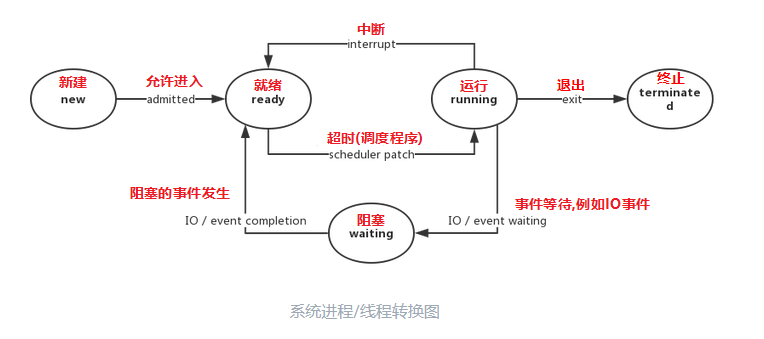
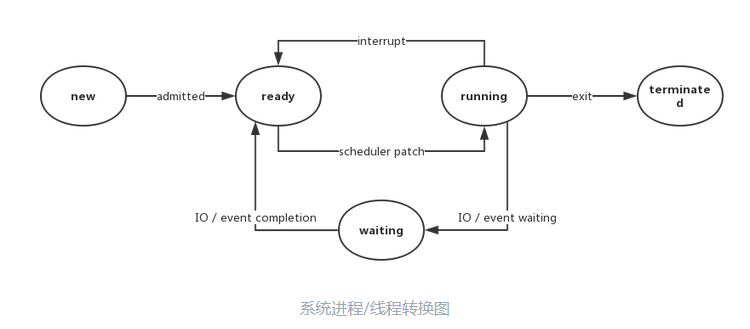
更新

Changed region(s): [[0.0307, 0.0608, 0.9813, 0.7903], [0.368, 0.8815, 0.6133, 0.9726]]

diff --git a/2021/20210825-Java线程的状态及主要转化方法.md b/2021/20210825-Java线程的状态及主要转化方法.md
@@ -12,6 +12,8 @@
 
 ![](../images/2021/08/20210825111331.png)
 
+![](../images/2021/08/20210827170634.png)
+
 操作系统线程主要有以下三个状态：
 
 +   就绪状态(ready)：线程正在等待使用CPU，经调度程序调用之后可进入running状态。
@@ -32,7 +34,7 @@ public enum State {
 }
 ```
 
-##  NEW
+##  NEW -> 尚未启动的线程的线程状态
 
 处于NEW状态的线程此时尚未启动。这里的尚未启动指的是还没调用Thread实例的start()方法。
 
@@ -128,95 +130,79 @@ public static State toThreadState(int var0) {
 +   两个问题的答案都是不可行，在调用一次start()之后，threadStatus的值会改变（threadStatus !=0），此时再次调用start()方法会抛出IllegalThreadStateException异常。
 +   比如，threadStatus为2代表当前线程状态为TERMINATED。
 
-4.2.2 RUNNABLE
+##  RUNNABLE -> 可运行线程的线程状态
+
+Java线程的RUNNABLE状态其实是包括了传统操作系统线程的`ready`和`running`两个状态的。
+
+我们来看看Thread源码里对RUNNABLE状态的定义：
+
+![](../images/2021/08/20210827164925.png)
 
 表示当前线程正在运行中。处于RUNNABLE状态的线程在Java虚拟机中运行，也有可能在等待其他系统资源（比如I/O）。
 
-Java中线程的RUNNABLE状态
-
-看了操作系统线程的几个状态之后我们来看看Thread源码里对RUNNABLE状态的定义：
-
-/**
- * Thread state for a runnable thread.  A thread in the runnable
- * state is executing in the Java virtual machine but it may
- * be waiting for other resources from the operating system
- * such as processor.
- */
-
-    Java线程的RUNNABLE状态其实是包括了传统操作系统线程的ready和running两个状态的。
-
-4.2.3 BLOCKED
+##  BLOCKED -> 线程阻塞等待监视器锁定的线程状态
 
 阻塞状态。处于BLOCKED状态的线程正等待锁的释放以进入同步区。
 
 我们用BLOCKED状态举个生活中的例子：
 
-    假如今天你下班后准备去食堂吃饭。你来到食堂仅有的一个窗口，发现前面已经有个人在窗口前了，此时你必须得等前面的人从窗口离开才行。
-    假设你是线程t2，你前面的那个人是线程t1。此时t1占有了锁（食堂唯一的窗口），t2正在等待锁的释放，所以此时t2就处于BLOCKED状态。
++   假如今天你下班后准备去食堂吃饭。你来到食堂仅有的一个窗口，发现前面已经有个人在窗口前了，此时你必须得等前面的人从窗口离开才行。
++   假设你是线程t2，你前面的那个人是线程t1。此时t1占有了锁（食堂唯一的窗口），t2正在等待锁的释放，所以此时t2就处于BLOCKED状态。
 
-4.2.4 WAITING
+##  WAITING -> 等待线程的线程状态
 
 等待状态。处于等待状态的线程变成RUNNABLE状态需要其他线程唤醒。
 
 调用如下3个方法会使线程进入等待状态：
 
-    Object.wait()：使当前线程处于等待状态直到另一个线程唤醒它；
-
-    Thread.join()：等待线程执行完毕，底层调用的是Object实例的wait方法；
-
-    LockSupport.park()：除非获得调用许可，否则禁用当前线程进行线程调度。  
++   Object.wait()：使当前线程处于等待状态直到另一个线程唤醒它；
++   Thread.join()：等待线程执行完毕，底层调用的是Object实例的wait方法；
++   LockSupport.park()：除非获得调用许可，否则禁用当前线程进行线程调度。
 
 我们延续上面的例子继续解释一下WAITING状态：
 
-    你等了好几分钟现在终于轮到你了，突然你们有一个“不懂事”的经理突然来了。你看到他你就有一种不祥的预感，果然，他是来找你的。
++   你等了好几分钟现在终于轮到你了，突然你们有一个“不懂事”的经理突然来了。你看到他你就有一种不祥的预感，果然，他是来找你的。
++   他把你拉到一旁叫你待会儿再吃饭，说他下午要去作报告，赶紧来找你了解一下项目的情况。你心里虽然有一万个不愿意但是你还是从食堂窗口走开了。
 
-    他把你拉到一旁叫你待会儿再吃饭，说他下午要去作报告，赶紧来找你了解一下项目的情况。你心里虽然有一万个不愿意但是你还是从食堂窗口走开了。
++   此时，假设你还是线程t2，你的经理是线程t1。虽然你此时都占有锁（窗口）了，“不速之客”来了你还是得释放掉锁。此时你t2的状态就是WAITING。然后经理t1获得锁，进入RUNNABLE状态。
++   要是经理t1不主动唤醒你t2（notify、notifyAll..），可以说你t2只能一直等待了。
 
-    此时，假设你还是线程t2，你的经理是线程t1。虽然你此时都占有锁（窗口）了，“不速之客”来了你还是得释放掉锁。此时你t2的状态就是WAITING。然后经理t1获得锁，进入RUNNABLE状态。
-
-    要是经理t1不主动唤醒你t2（notify、notifyAll..），可以说你t2只能一直等待了。
-
-4.2.5 TIMED_WAITING
+##  TIMED_WAITING -> 具有指定等待时间的等待线程的线程状态
 
 超时等待状态。线程等待一个具体的时间，时间到后会被自动唤醒。
 
 调用如下方法会使线程进入超时等待状态：
 
-    Thread.sleep(long millis)：使当前线程睡眠指定时间；
-
-    Object.wait(long timeout)：线程休眠指定时间，等待期间可以通过notify()/notifyAll()唤醒；
-
-    Thread.join(long millis)：等待当前线程最多执行millis毫秒，如果millis为0，则会一直执行；
-
-    LockSupport.parkNanos(long nanos)： 除非获得调用许可，否则禁用当前线程进行线程调度指定时间；
-
-    LockSupport.parkUntil(long deadline)：同上，也是禁止线程进行调度指定时间；
++   Thread.sleep(long millis)：使当前线程睡眠指定时间；
++   Object.wait(long timeout)：线程休眠指定时间，等待期间可以通过notify()/notifyAll()唤醒；
++   Thread.join(long millis)：等待当前线程最多执行millis毫秒，如果millis为0，则会一直执行；
++   LockSupport.parkNanos(long nanos)： 除非获得调用许可，否则禁用当前线程进行线程调度指定时间；
++   LockSupport.parkUntil(long deadline)：同上，也是禁止线程进行调度指定时间；
 
 我们继续延续上面的例子来解释一下TIMED_WAITING状态：
 
-    到了第二天中午，又到了饭点，你还是到了窗口前。
++   到了第二天中午，又到了饭点，你还是到了窗口前。
++   突然间想起你的同事叫你等他一起，他说让你等他十分钟他改个bug。
++   好吧，你说那你就等等吧，你就离开了窗口。很快十分钟过去了，你见他还没来，你想都等了这么久了还不来，那你还是先去吃饭好了。
 
-    突然间想起你的同事叫你等他一起，他说让你等他十分钟他改个bug。
++   这时你还是线程t1，你改bug的同事是线程t2。t2让t1等待了指定时间，t1先主动释放了锁。此时t1等待期间就属于TIMED_WATING状态。
++   t1等待10分钟后，就自动唤醒，拥有了去争夺锁的资格。
 
-    好吧，你说那你就等等吧，你就离开了窗口。很快十分钟过去了，你见他还没来，你想都等了这么久了还不来，那你还是先去吃饭好了。
-
-    这时你还是线程t1，你改bug的同事是线程t2。t2让t1等待了指定时间，t1先主动释放了锁。此时t1等待期间就属于TIMED_WATING状态。
-
-    t1等待10分钟后，就自动唤醒，拥有了去争夺锁的资格。
-
-4.2.6 TERMINATED
+##  TERMINATED -> 终止
 
 终止状态。此时线程已执行完毕。
-4.3 线程状态的转换
+
+#   线程状态的转换
 
 根据上面关于线程状态的介绍我们可以得到下面的线程状态转换图： 线程状态转换图
-4.3.1 BLOCKED与RUNNABLE状态的转换
+
+##  BLOCKED与RUNNABLE状态的转换
 
 我们在上面说到：处于BLOCKED状态的线程是因为在等待锁的释放。假如这里有两个线程a和b，a线程提前获得了锁并且暂未释放锁，此时b就处于BLOCKED状态。我们先来看一个例子：
 
+```java
 @Test
 public void blockedTest() {
-
     Thread a = new Thread(new Runnable() {
         @Override
         public void run() {
@@ -229,13 +215,13 @@ public void blockedTest() {
             testMethod();
         }
     }, "b");
-
+
     a.start();
     b.start();
     System.out.println(a.getName() + ":" + a.getState()); // 输出？
     System.out.println(b.getName() + ":" + b.getState()); // 输出？
 }
-
+
 // 同步方法争夺锁
 private synchronized void testMethod() {
     try {
@@ -244,12 +230,13 @@ private synchronized void testMethod() {
         e.printStackTrace();
     }
 }
+```
 
 初看之下，大家可能会觉得线程a会先调用同步方法，同步方法内又调用了Thread.sleep()方法，必然会输出TIMED_WAITING，而线程b因为等待线程a释放锁所以必然会输出BLOCKED。
 
 其实不然，有两点需要值得大家注意，一是在测试方法blockedTest()内还有一个main线程，二是启动线程后执行run方法还是需要消耗一定时间的。不打断点的情况下，上面代码中都应该输出RUNNABLE。
 
-    测试方法的main线程只保证了a，b两个线程调用start()方法（转化为RUNNABLE状态），还没等两个线程真正开始争夺锁，就已经打印此时两个线程的状态（RUNNABLE）了。
+>   测试方法的main线程只保证了a，b两个线程调用start()方法（转化为RUNNABLE状态），`还没等两个线程真正开始争夺锁，就已经打印此时两个线程的状态（RUNNABLE）了`。
 
 这时你可能又会问了，要是我想要打印出BLOCKED状态我该怎么处理呢？其实就处理下测试方法里的main线程就可以了，你让它“休息一会儿”，打断点或者调用Thread.sleep方法就行。
 
@@ -257,6 +244,7 @@ private synchronized void testMethod() {
 
 我们把上面的测试方法blockedTest()改动一下：
 
+```java
 public void blockedTest() throws InterruptedException {
     ······
     a.start();
@@ -265,15 +253,18 @@ public void blockedTest() throws InterruptedException {
     System.out.println(a.getName() + ":" + a.getState()); // 输出？
     System.out.println(b.getName() + ":" + b.getState()); // 输出？
 }
+```
 
 在这个例子中，由于main线程休眠，所以线程a的run()方法跟着执行，线程b再接着执行。
 
 在线程a执行run()调用testMethod()之后，线程a休眠了2000ms（注意这里是没有释放锁的），main线程休眠完毕，接着b线程执行的时候是争夺不到锁的，所以这里输出：
 
+```
 a:TIMED_WAITING
 b:BLOCKED
+```
 
-4.3.2 WAITING状态与RUNNABLE状态的转换
+##  WAITING状态与RUNNABLE状态的转换
 
 根据转换图我们知道有3个方法可以使线程从RUNNABLE状态转为WAITING状态。我们主要介绍下Object.wait()和Thread.join()。 Object.wait()
 
@@ -361,3 +352,4 @@ b线程状态仍然不固定（RUNNABLE或BLOCKED）。
 +   [Java线程状态分析](https://fangjian0423.github.io/2016/06/04/java-thread-state/)
 +   [Java线程和操作系统线程的关系](https://blog.csdn.net/CringKong/article/details/79994511)
 +   [详细分析 Java 中断机制](https://www.infoq.cn/article/java-interrupt-mechanism)
++   [Java多线程-线程状态](https://zhuanlan.zhihu.com/p/79775292)

diff --git a/2021/20210626-配置ssh使用证书访问服务器.md b/2021/20210626-配置ssh使用证书访问服务器.md
@@ -18,23 +18,22 @@ ssh-keygen -t rsa -b 4096 -f ~/.ssh/server_rsa -C "xx-email"
 # 可以一直回车,不设定密码,也可以设定私钥密码
 ```
 
-+
-    -   -t:指定算法
-    -   -b:指定长度
-    -   -f:指定文件名
-    -   -C:指定邮箱,可以不写
++   -t:指定算法
++   -b:指定长度
++   -f:指定文件名
++   -C:指定邮箱,可以不写
 
-#   上传密钥的服务器端
-
-接下来，我们将我们创建好的公钥上传到服务器上，我们将会使用到 scp 命令。
+#   上传公钥的服务器端并加入 authorized_keys
+##  方式一
+1.  我们将我们创建好的公钥上传到服务器上，我们将会使用到 scp 命令。
 
 ```bash
 # 上传密钥的服务器端
-scp ~/.ssh/server_rsa.pub <YOUR SERVER USERNAME>@<YOUR SERVER IP ADDRESS>
+scp -P <端口> ~/.ssh/server_rsa.pub <用户名>@<服务器IP地址>:<存到哪个文件夹>
 ```
 
+2.  服务器端将密钥添加到 authorized_keys
 
-#   服务器端将密钥添加到 authorized_keys
 在服务器上执行如下操作
 
 ```bash
@@ -45,6 +44,17 @@ mkdir .ssh
 # 将公钥添加到 authorized_keys 文件中
 cat server_rsa.pub >> ~/.ssh/authorized_keys
 ```
+
+##  方式二
+
+```bash
+ssh-copy-id -i server_rsa.pub -p<端口> <用户名>@<服务器IP地址>
+```
+
+最终目的和方式一是一样的,就是将公钥加入到authorized_keys文件
+
+![](../images/2021/08/20210831113356.png)
+
 
 #   连接测试
 

diff --git a/2021/20210507-离线安装ELK.md b/2021/20210507-离线安装ELK.md
@@ -41,7 +41,6 @@ path.logs: /var/log/elasticsearch
 # -- 配置所有地址都能访问 --
 network.host: 0.0.0.0
 http.port: 7101
-cluster.initial_master_nodes: ["node-1", "node-2"]
 # -- 启用用户名密码 --
 http.cors.enabled: true
 http.cors.allow-origin: "*"
@@ -49,6 +48,8 @@ http.cors.allow-headers: Authorization
 xpack.security.enabled: true
 xpack.security.transport.ssl.enabled: true
 ```
+
+!> 注意：如果有自己创建`/yours/var/lib/elasticsearch`和`/yours/var/log/elasticsearch`目录,需要修改所属用户和所属组,即`chown -R elasticsearch:elasticsearch /yours/var/lib/elasticsearch`和`chown -R elasticsearch:elasticsearch /yours/var/log/elasticsearch`
 
 2.  配置用户名密码
 

diff --git a/README.md b/README.md
@@ -75,6 +75,7 @@
 -   [移动数据库文件和日志文件到数据盘](2021/20210506-移动数据库文件和日志文件到数据盘.md)
 -   [切换yum源到阿里云](2021/20210506-切换yum源到阿里云.md)
 -   [设置服务器时间同步](2021/20210506-设置服务器时间同步.md)
+-   [将相关下载命令重命名](2021/20210830-将相关下载命令重命名.md)
 -   [安装k8s和docker](2021/20210506-安装k8s和docker.md)
 -   [离线安装docker](2021/20210506-centos7离线安装docker.md)
 -   [安装jdk8](2021/20210506-安装jdk8.md)
